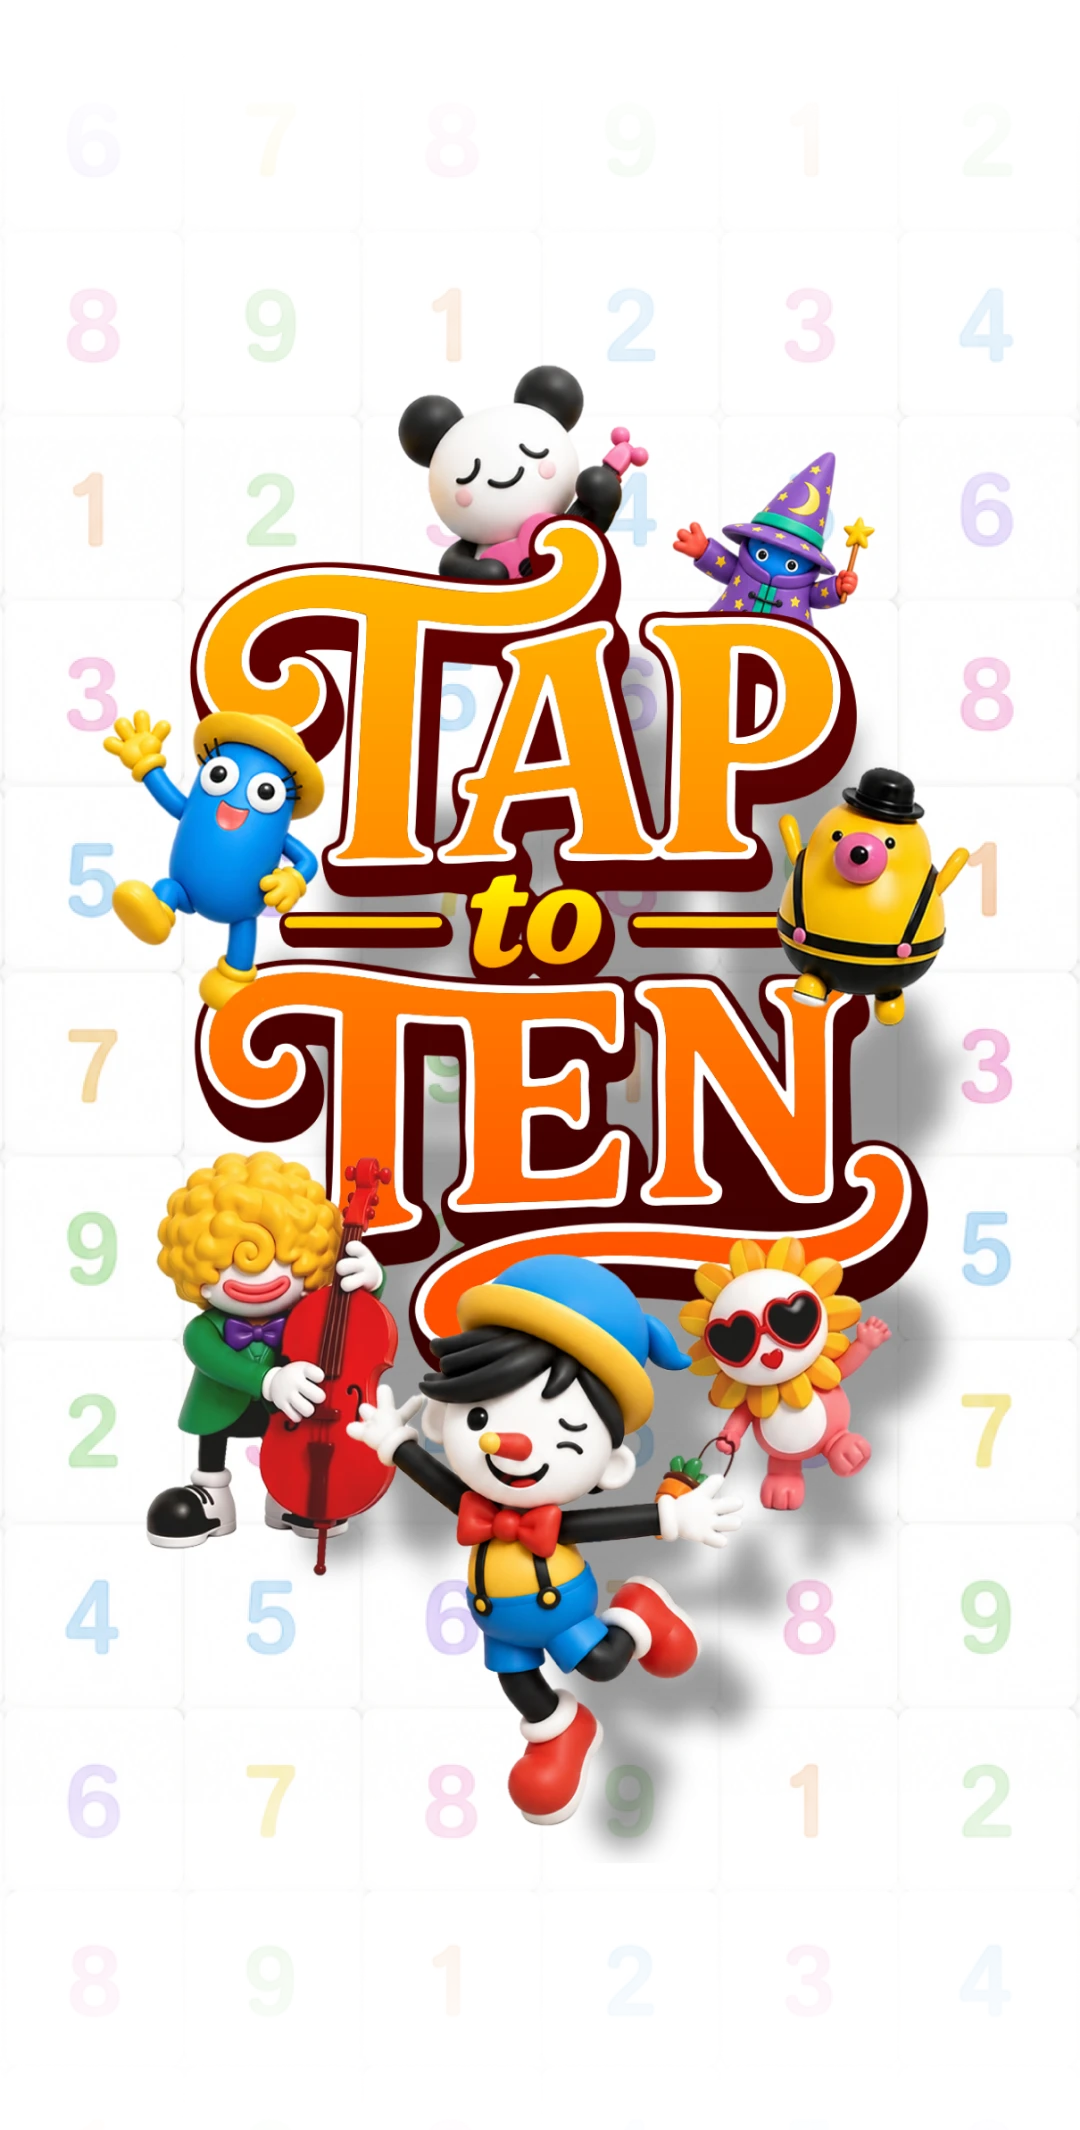
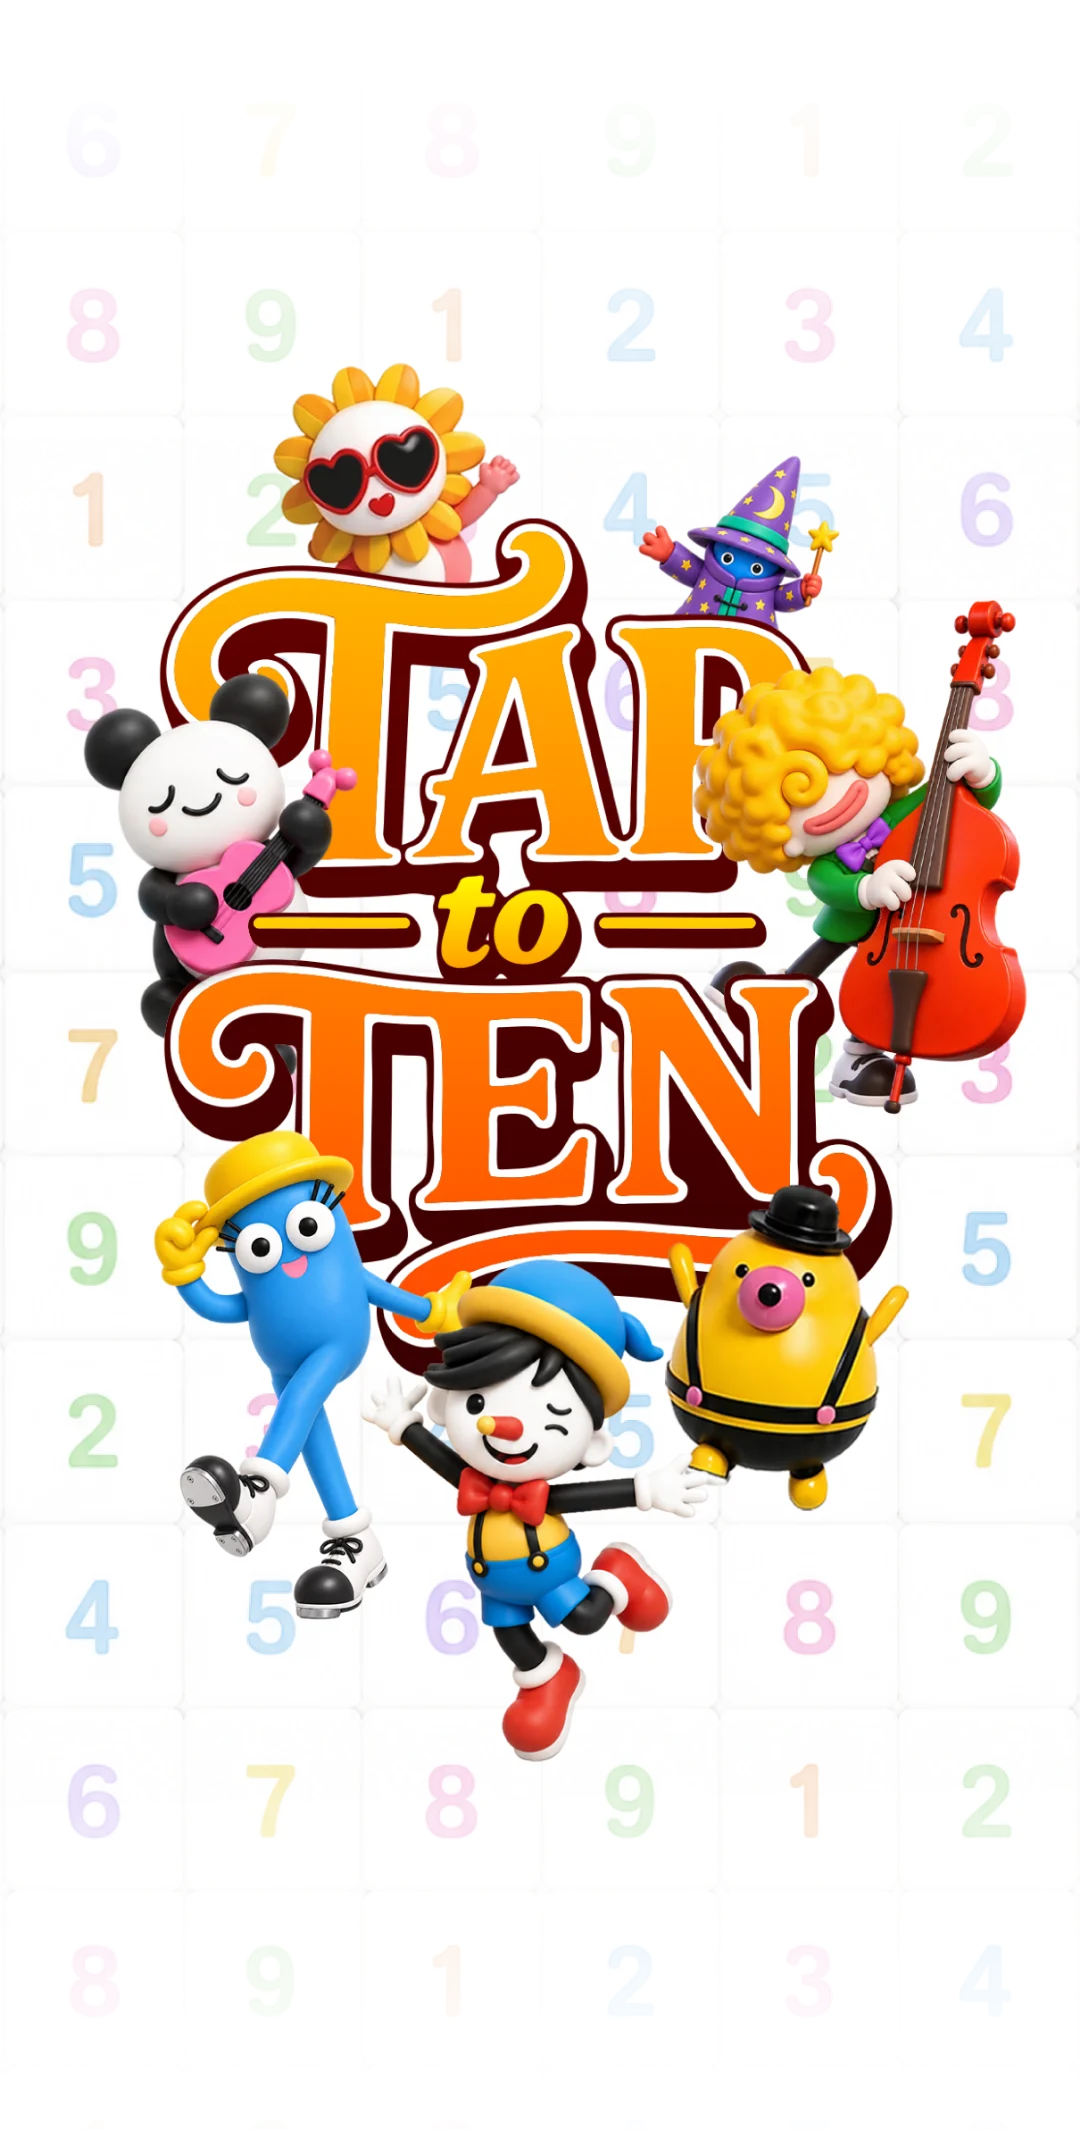
Shrink the stopwatch, drop it a little, and swap in cover-3
The watch goes from 108px to 86px and hangs below the middle instead of above
it. It used to be lifted so the dial sat dead centre on the plate — right by
measurement, wrong by eye, because the crown above the dial carries weight of
its own and a centred dial reads as the whole watch riding high. The dial now
sits 5.8% of the plate's height below its middle, set as a share of the icon's
own height so the drop is the same at every screen size.

The cover becomes cover-3: 4837x9540 and 2.8MB of PNG down to 1080x2130 and
415KB of WebP. Its <img> was declaring 1080x2418 all along, against a picture
that has always been 1080x2130, so the page was reserving the wrong box while
it loaded; that is corrected with it.

The conversion is a script now — `npm run cover <in.png> <out.webp>`. There is
no image toolchain here and no reason to add one to maintain, but the browser
the layout tests already drive can resize and encode WebP on its own.

Claude-Session: https://claude.ai/code/session_01KksbCsyuxr5ve9AxVR5jhx

diff --git a/src/ui/styles/picker.css b/src/ui/styles/picker.css
@@ -362,15 +362,17 @@
 /*
  * The drawn stopwatch, number and all.
  *
- * Nudged up because the crown sits above the dial: the dial's centre is 55.4%
- * of the way down the artwork, not half, so centring the picture in the plate
- * would leave the face low. The offset is a percentage of the icon's own
- * height, so it holds at whatever size the plate is drawn.
+ * It used to be lifted so the dial sat dead centre on the plate — the crown
+ * above the dial means the face is 55.4% of the way down the artwork, not
+ * half. Correct, and it looked wrong: the crown carries visual weight of its
+ * own, so a centred dial reads as the whole watch riding high. It hangs a
+ * little below the middle now, by a share of its own height so the drop holds
+ * at any size.
  */
 .intro-watch {
   width: auto;
-  height: 108px;
-  transform: translateY(-5.4%);
+  height: 86px;
+  transform: translateY(4%);
 }
 
 .intro-mark-label {
@@ -436,7 +438,7 @@
     font-size: 42px;
   }
 
-  .intro-watch { height: 78px; }
+  .intro-watch { height: 62px; }
   .intro-mark.endless .intro-mark-label { font-size: 48px; }
 
   .card-plate {

diff --git a/index.html b/index.html
@@ -16,7 +16,7 @@
       <!-- The cover art fills the screen edge to edge. It already carries the
            wordmark and the cast, so nothing is drawn on top of it. -->
       <section class="screen splash-screen" id="screen-splash" aria-label="TAP to TEN">
-        <img class="splash-cover" src="./cover.webp" alt="TAP to TEN" width="1080" height="2418" />
+        <img class="splash-cover" src="./cover.webp" alt="TAP to TEN" width="1080" height="2130" />
       </section>
 
       <!-- ── title ─────────────────────────────────────────────── -->

diff --git a/docs/WORKLOG.md b/docs/WORKLOG.md
@@ -1098,3 +1098,29 @@ offX 0, offY 0   (다이얼 중심 대비 글씨 잉크 중심, px)
 그대로 ∞ 글씨입니다.
 
 유닛 123 · 레이아웃 · 드래그 · 피드백 전부 통과.
+
+## 스톱워치를 80% 로 줄이고 조금 내림, 표지 교체
+
+**스톱워치**: 108px → 86px, 그리고 아래로. 원래는 다이얼이 판 정중앙에 오도록 위로
+올려 놨었는데 — 계산은 맞지만 눈에는 시계가 떠 보입니다. 용두가 위에 있어서 그쪽에도
+무게가 실리기 때문입니다. 지금은 다이얼이 판 중앙보다 **판 높이의 5.8% 만큼 아래**에
+있습니다.
+
+```
+320x568 timeAttack  dialDrop=0.058 fill=0.62
+430x932 timeless    dialDrop=0.058 fill=0.61
+```
+
+자기 높이의 퍼센트로 내렸기 때문에 화면이 커지든 작아지든 **같은 만큼** 내려갑니다.
+
+**표지**: `cover-3.png` (4837x9540, 2.8MB) → `public/cover.webp` (1080x2130, 415KB).
+
+`<img>` 에 적혀 있던 크기가 `1080x2418` 로 **원래부터 틀려 있었습니다**(실제는 1080x2130).
+그림 불러오는 동안 브라우저가 잘못된 자리를 비워 놓고 있었다는 뜻이라 같이 고쳤습니다.
+
+**변환을 스크립트로 남겼습니다** — `npm run cover <in.png> <out.webp>`. 이 저장소에는
+이미지 도구가 없고(ImageMagick 도 sharp 도 없음) 새로 설치해서 관리하고 싶지도 않은데,
+레이아웃 테스트가 이미 쓰는 브라우저가 크기 조절과 WebP 인코딩을 할 줄 압니다. 다음에
+표지를 바꿀 때 한 줄이면 됩니다.
+
+유닛 123 · 레이아웃 · 드래그 · 피드백 전부 통과.
